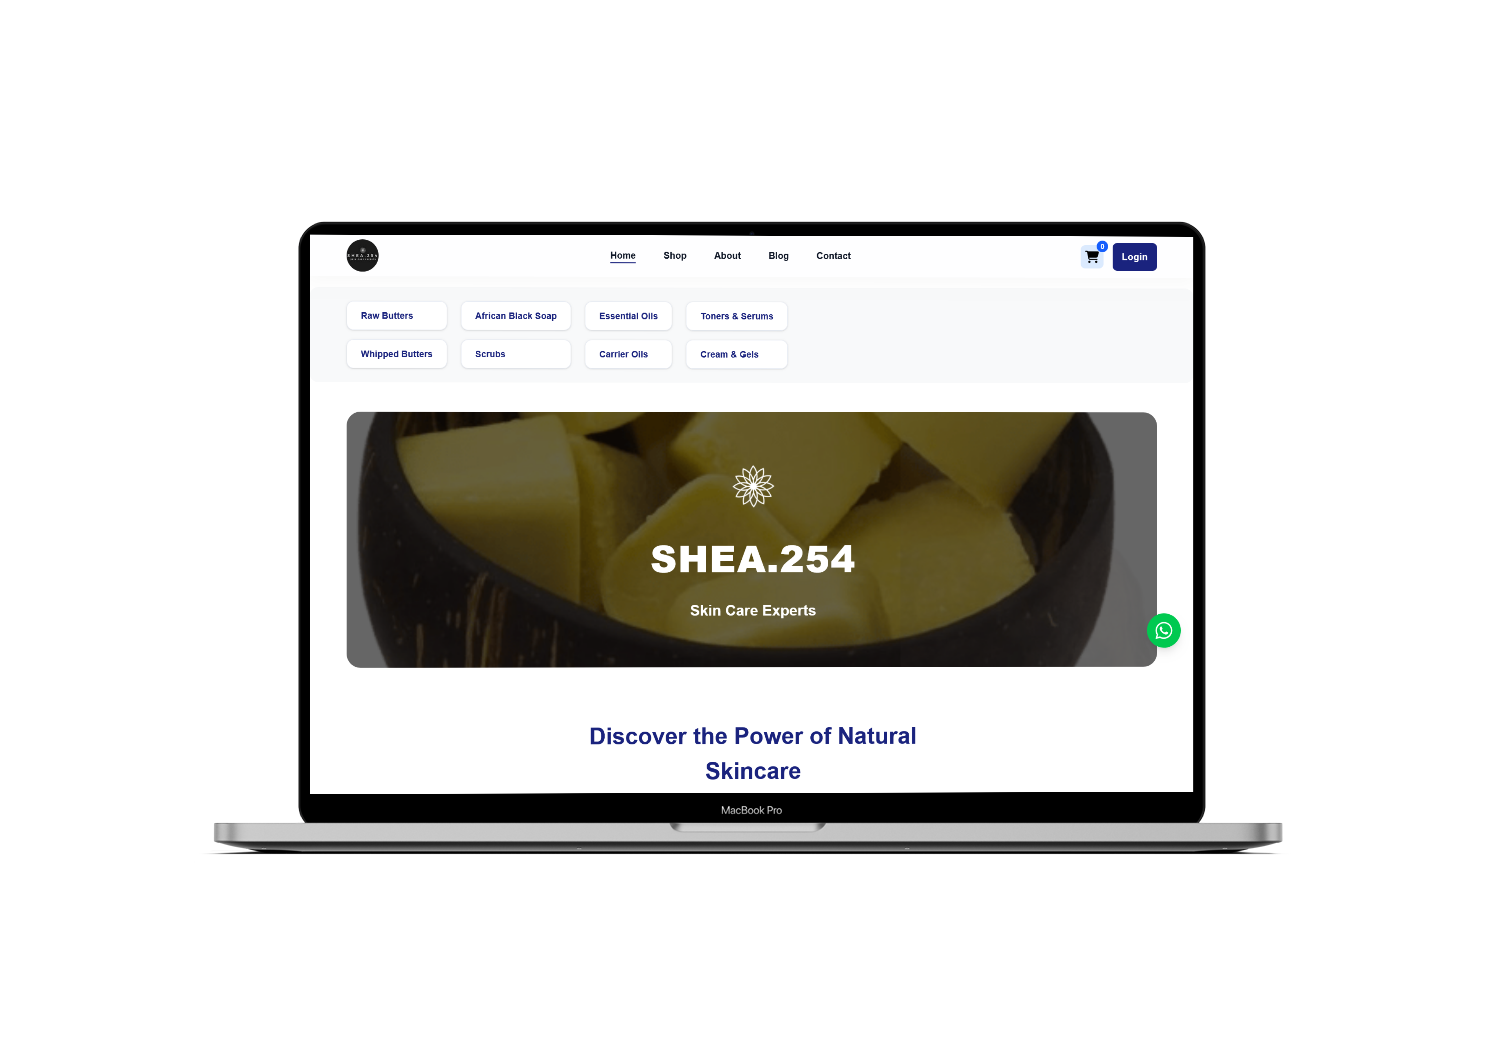
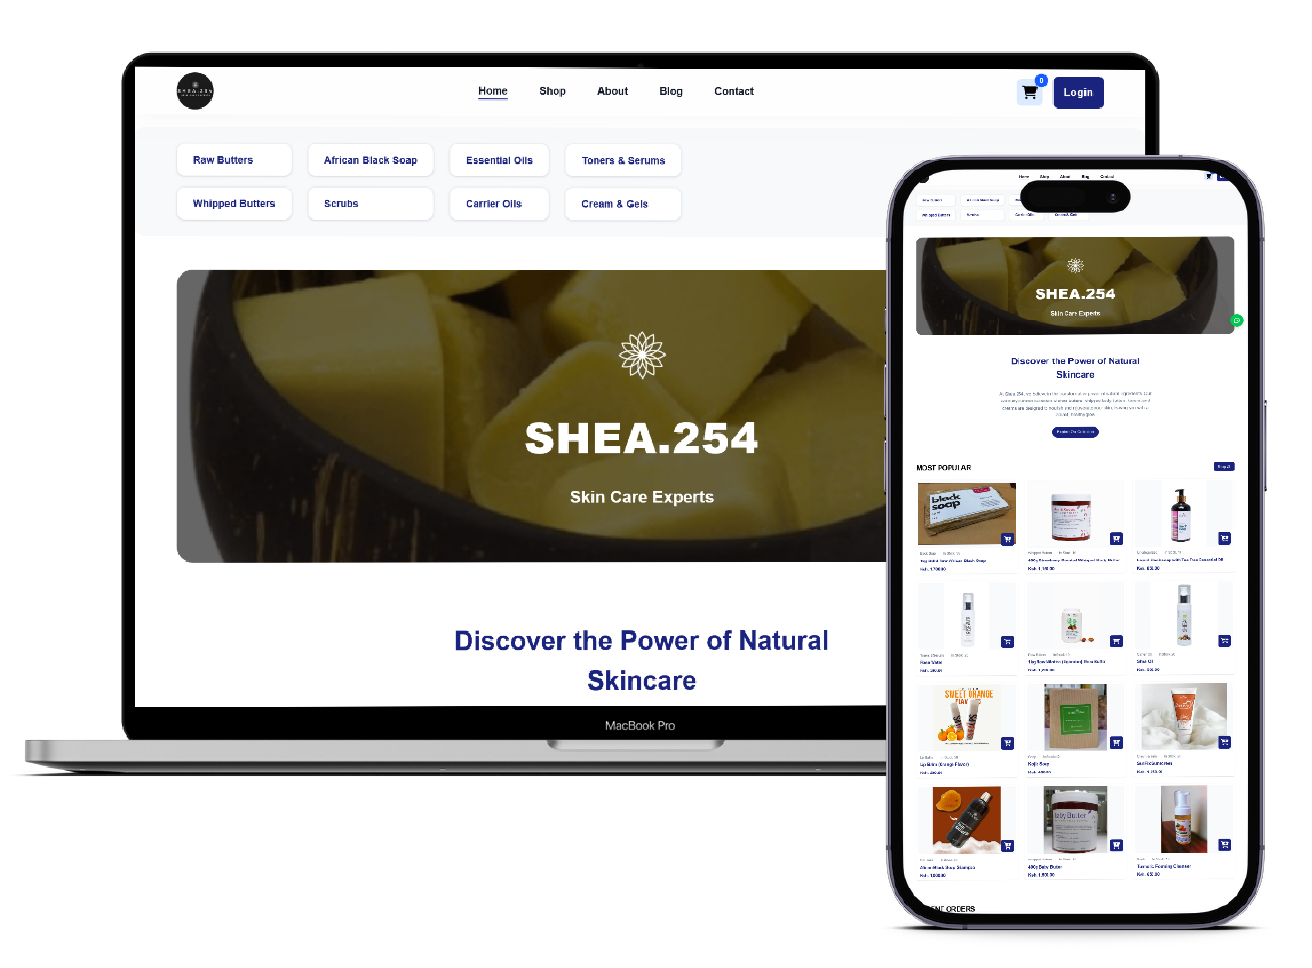
updated the shea254 project image.

diff --git a/src/assets/styles/pages/home-page.css b/src/assets/styles/pages/home-page.css
@@ -143,6 +143,10 @@
 
                     .image {
                         @apply w-full h-[30dvh] lg:h-[40dvh];
+
+                        img {
+                            @apply object-contain;
+                        }
                     }
                 }
             }